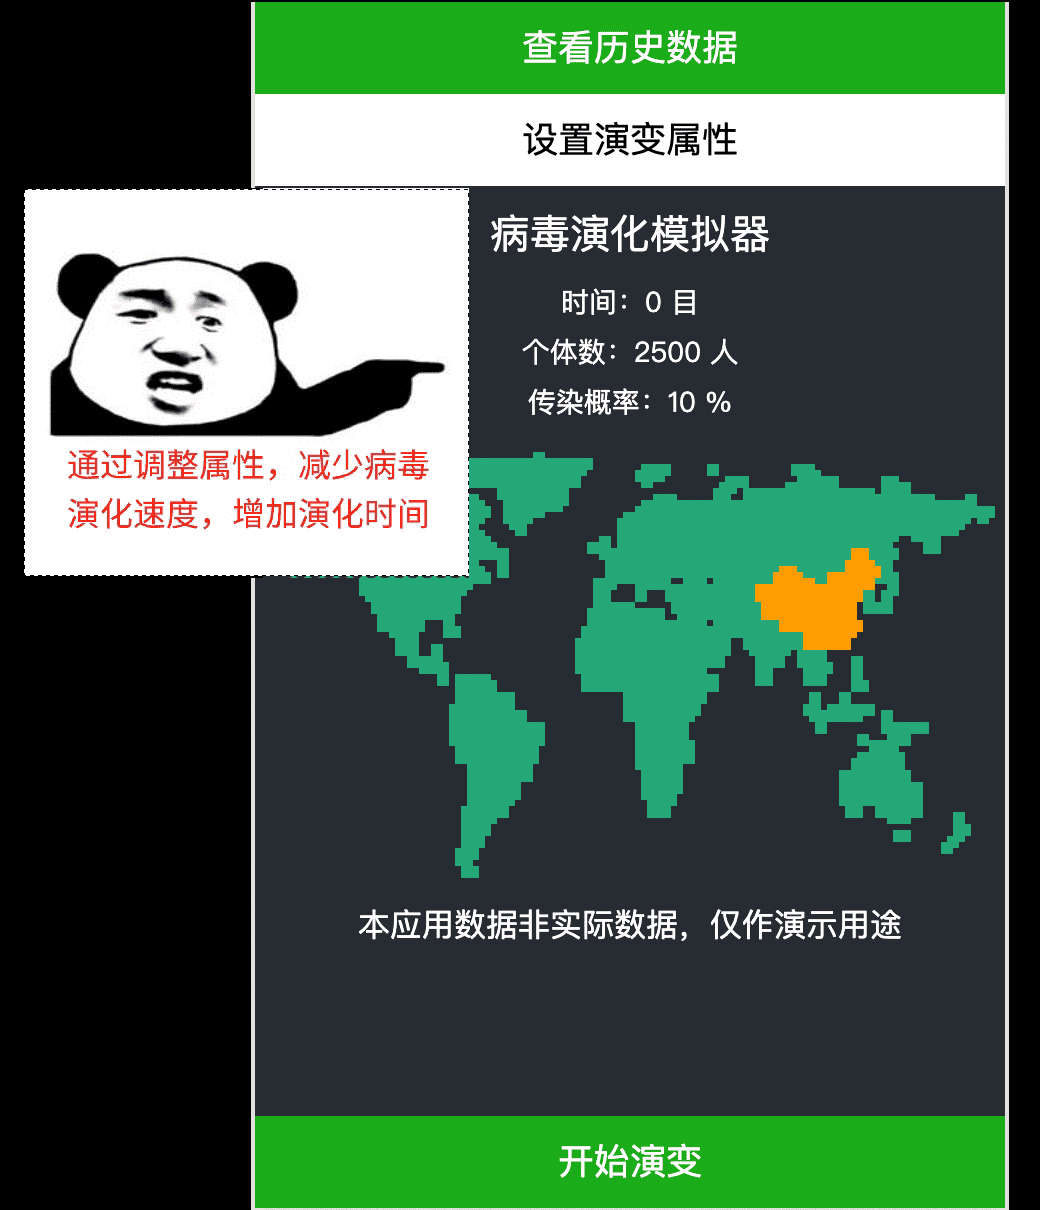
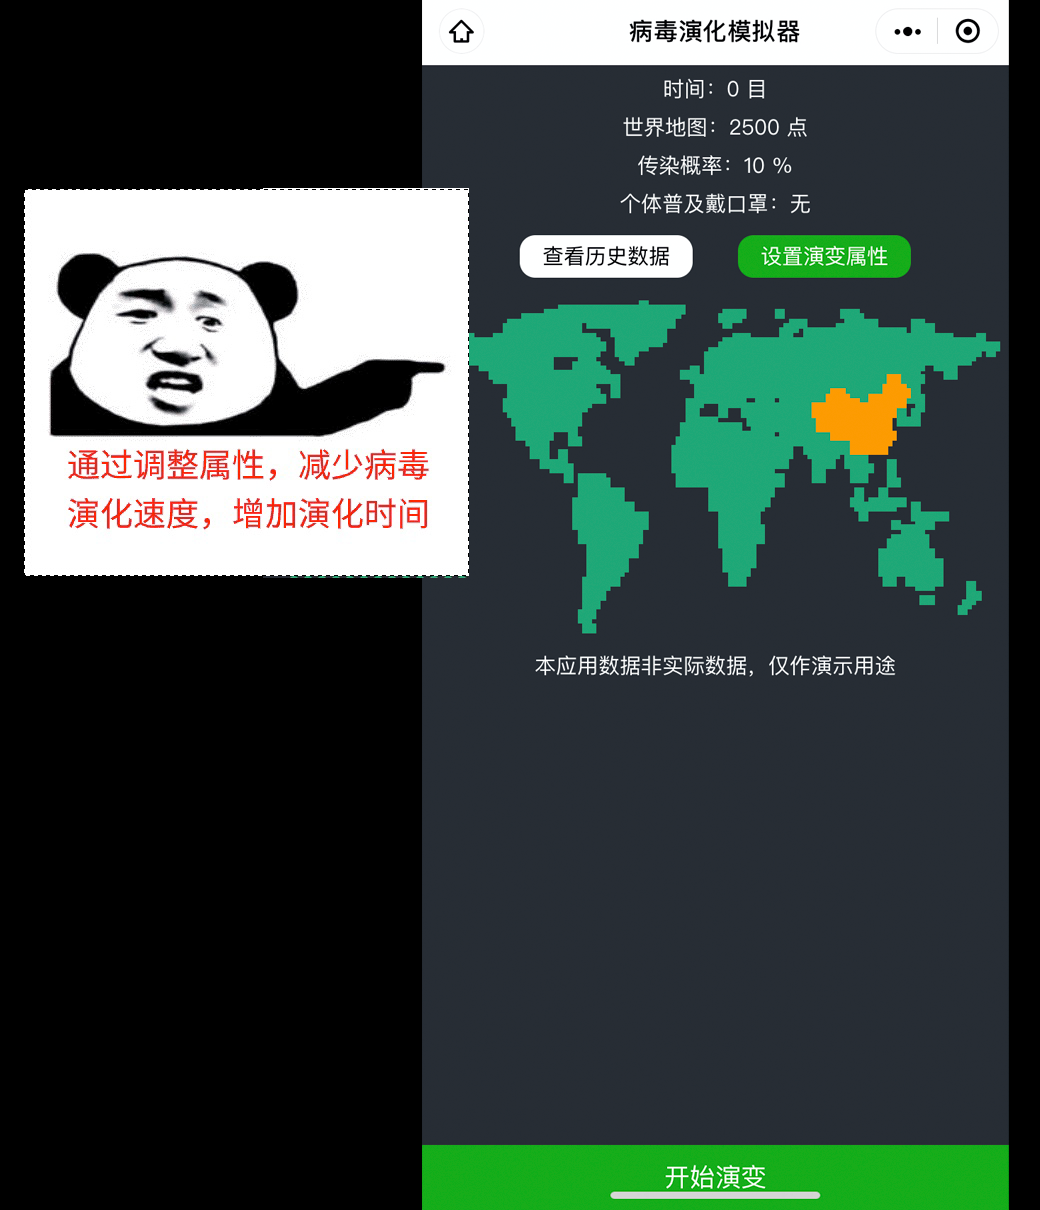
update 增加速度设置2

diff --git a/taro/src/pages/spread-game/spread-game.js b/taro/src/pages/spread-game/spread-game.js
@@ -4,11 +4,13 @@ import  RenderPop from './components/list-model'
 import { FlyModal } from './components/fly-modal'
 import guideImg from '../../images/spread-6.png'
 import { View, Button, Image, Block } from '@tarojs/components'
-import { COUNT_INIT_STATE } from './status';
-
+import { isIphoneSafeArea } from 'utils/common';
+import { COUNT_INIT_STATE } from './status'
 import { MAP_LITE } from './map-lite';
 
 import './styles.styl'
+
+const isIphoneX = isIphoneSafeArea()
 
 const getMapList = (count) => {
   let mapList = []
@@ -26,18 +28,30 @@ const getMapList = (count) => {
 
 export default class SpreadGame extends Taro.Component {
 
+  config = {
+    navigationBarTitleText: '病毒演化模拟器',
+  }
+
+  onShareAppMessage() {
+    const DEFAULT_SHARE_COVER = 'https://n1image.hjfile.cn/res7/2020/02/02/a374bb58c4402a90eeb07b1abbb95916.png'
+
+    return {
+      title: '让我们快快戴口罩，抗击疫情吧！',
+      imageUrl: DEFAULT_SHARE_COVER,
+      path: '/pages/wear-a-mask/wear-a-mask'
+    }
+  }
+
   renderPlane = (props) => {
     const { day, config } = props
-    const { row, col, percent } = config
+    const { row, col, percent, mask } = config
 
     return (
       <View>
         <View className="app-p">时间：{day} 目</View>
-        <View className="app-p">个体数：{row * col} 人</View>
+        <View className="app-p">世界地图：{row * col} 点</View>
         <View className="app-p">传染概率：{percent} %</View>
-        {/* <p>飞机管制：{props.config.fly ? '无' : '有'}</p>
-      <p>高铁管制：{props.config.travel ? '无' : '有'}</p>
-      <p>高速管制：{props.config.way ? '无' : '有'}</p> */}
+        <View className="app-p">个体普及戴口罩：{mask ? '有' : '无'}</View>
       </View>
     )
   }
@@ -135,27 +149,29 @@ export default class SpreadGame extends Taro.Component {
         content: saveItem,
         visible: true
       })
-      console.log(saveItem)
     }
+
 
     return (
       <View>
         <View className="app-view">
-          <Button type="primary" onClick={() => clickHistory(setHistory)}>查看历史数据</Button>
-          <Button className='bottom-btn' disabled={start} onClick={() => setConfig({
-            ...config,
-            showPop: true
-          })}
-          >
-            设置演变属性
-          </Button>
-          <View className="app-h3">病毒演化模拟器</View>
+          {/* <View className="app-h3">病毒演化模拟器</View> */}
           {this.renderPlane({
             count,
             config,
             setConfig,
             day
           })}
+          <View className='btn-wrap'>
+            <Button className='bottom-btn' onClick={() => clickHistory(setHistory)}>查看历史数据</Button>
+            <Button type="primary" disabled={start} onClick={() => setConfig({
+              ...config,
+              showPop: true
+            })}
+            >
+              设置演变属性
+          </Button>
+          </View>
           <View className='map-wrap'>
             {
               mapList.map((one) => {
@@ -193,7 +209,6 @@ export default class SpreadGame extends Taro.Component {
           >
             {
               history.content.filter(item => !!item).map((val) => {
-                console.log('val :', typeof val, !!val);
 
                 return (
                   <View key={val.key}>
@@ -218,9 +233,9 @@ export default class SpreadGame extends Taro.Component {
           >
             <Image src={guideImg} alt='' className='guide-img'  />
           </FlyModal>
-          <View>本应用数据非实际数据，仅作演示用途</View>
+          <View className='app-p'>本应用数据非实际数据，仅作演示用途</View>
 
-          <Button type={start ? 'warn' : 'primary'} className='history' disabled={start} onClick={() => clickStart()}>{start ? '正在演变' : '开始演变'}</Button>
+          <Button type={start ? 'warn' : 'primary'} className={`history ${isIphoneX ? 'ip-x' : ''}`} disabled={start} onClick={() => clickStart()}>{start ? '正在演变' : '开始演变'}</Button>
         </View>
       </View>
     )

diff --git a/taro/src/pages/spread-game/components/list-model/index.js b/taro/src/pages/spread-game/components/list-model/index.js
@@ -58,7 +58,7 @@ export default class RenderPop extends Taro.Component {
                 onChange={(ev) => {
                   setConfig({
                     ...config,
-                    fly: !ev
+                    fly: !ev.detail.value
                   })
                 }}
               />
@@ -75,7 +75,7 @@ export default class RenderPop extends Taro.Component {
                 onChange={(ev) => {
                   setConfig({
                     ...config,
-                    travel: !ev
+                    travel: !ev.detail.value
                   })
                 }}
               />
@@ -92,7 +92,7 @@ export default class RenderPop extends Taro.Component {
                 onChange={(ev) => {
                   setConfig({
                     ...config,
-                    way: !ev
+                    way: !ev.detail.value
                   })
                 }}
               />
@@ -107,10 +107,11 @@ export default class RenderPop extends Taro.Component {
               <Switch
                 checked={config.mask}
                 onChange={(ev) => {
-                  const percent = ev ? config.percent - 2 : config.percent + 2
+                  console.log('ev.detail.value :', ev.detail.value);
+                  const percent = ev.detail.value ? config.percent - 2 : config.percent + 2
                   setConfig({
                     ...config,
-                    mask: ev,
+                    mask: ev.detail.value,
                     percent
                   })
                 }}
@@ -126,22 +127,17 @@ export default class RenderPop extends Taro.Component {
               <Switch
                 checked={config.gather}
                 onChange={(ev) => {
-                  const percent = ev ? config.percent - 2 : config.percent + 2
+                  const percent = ev.detail.value ? config.percent - 2 : config.percent + 2
                   setConfig({
                     ...config,
-                    gather: ev,
+                    gather: ev.detail.value,
                     percent
                   })
                 }}
               />
             </View>
             <View className='list-item'>
-              <View className='item_click' onClick={() => {
-                setModalVisible({
-                  ...modalVisible,
-                  gather: true
-                })
-              }}>人员聚集管制<Icon type='info' size='15'></Icon></View>
+              <View className='item_click'>演化速度</View>
               <View className='list-item-right'>
                 <Slider onChange={(ev) => {
                   console.log('ev.detail.value :', ev.detail.value);

diff --git a/taro/src/pages/wear-a-mask/wear-a-mask.js b/taro/src/pages/wear-a-mask/wear-a-mask.js
@@ -39,7 +39,7 @@ const resetState = () => {
 // @CorePage
 class WearMask extends Component {
   config = {
-    navigationBarTitleText: '一起戴口罩',
+    navigationBarTitleText: '快快戴口罩',
   }
 
   constructor(props) {
@@ -63,7 +63,7 @@ class WearMask extends Component {
     const DEFAULT_SHARE_COVER = 'https://n1image.hjfile.cn/res7/2020/02/02/a374bb58c4402a90eeb07b1abbb95916.png'
 
     return {
-      title: '让我们一起戴口罩，抗击疫情吧！',
+      title: '让我们快快戴口罩，抗击疫情吧！',
       imageUrl: DEFAULT_SHARE_COVER,
       path: '/pages/wear-a-mask/wear-a-mask'
     }
